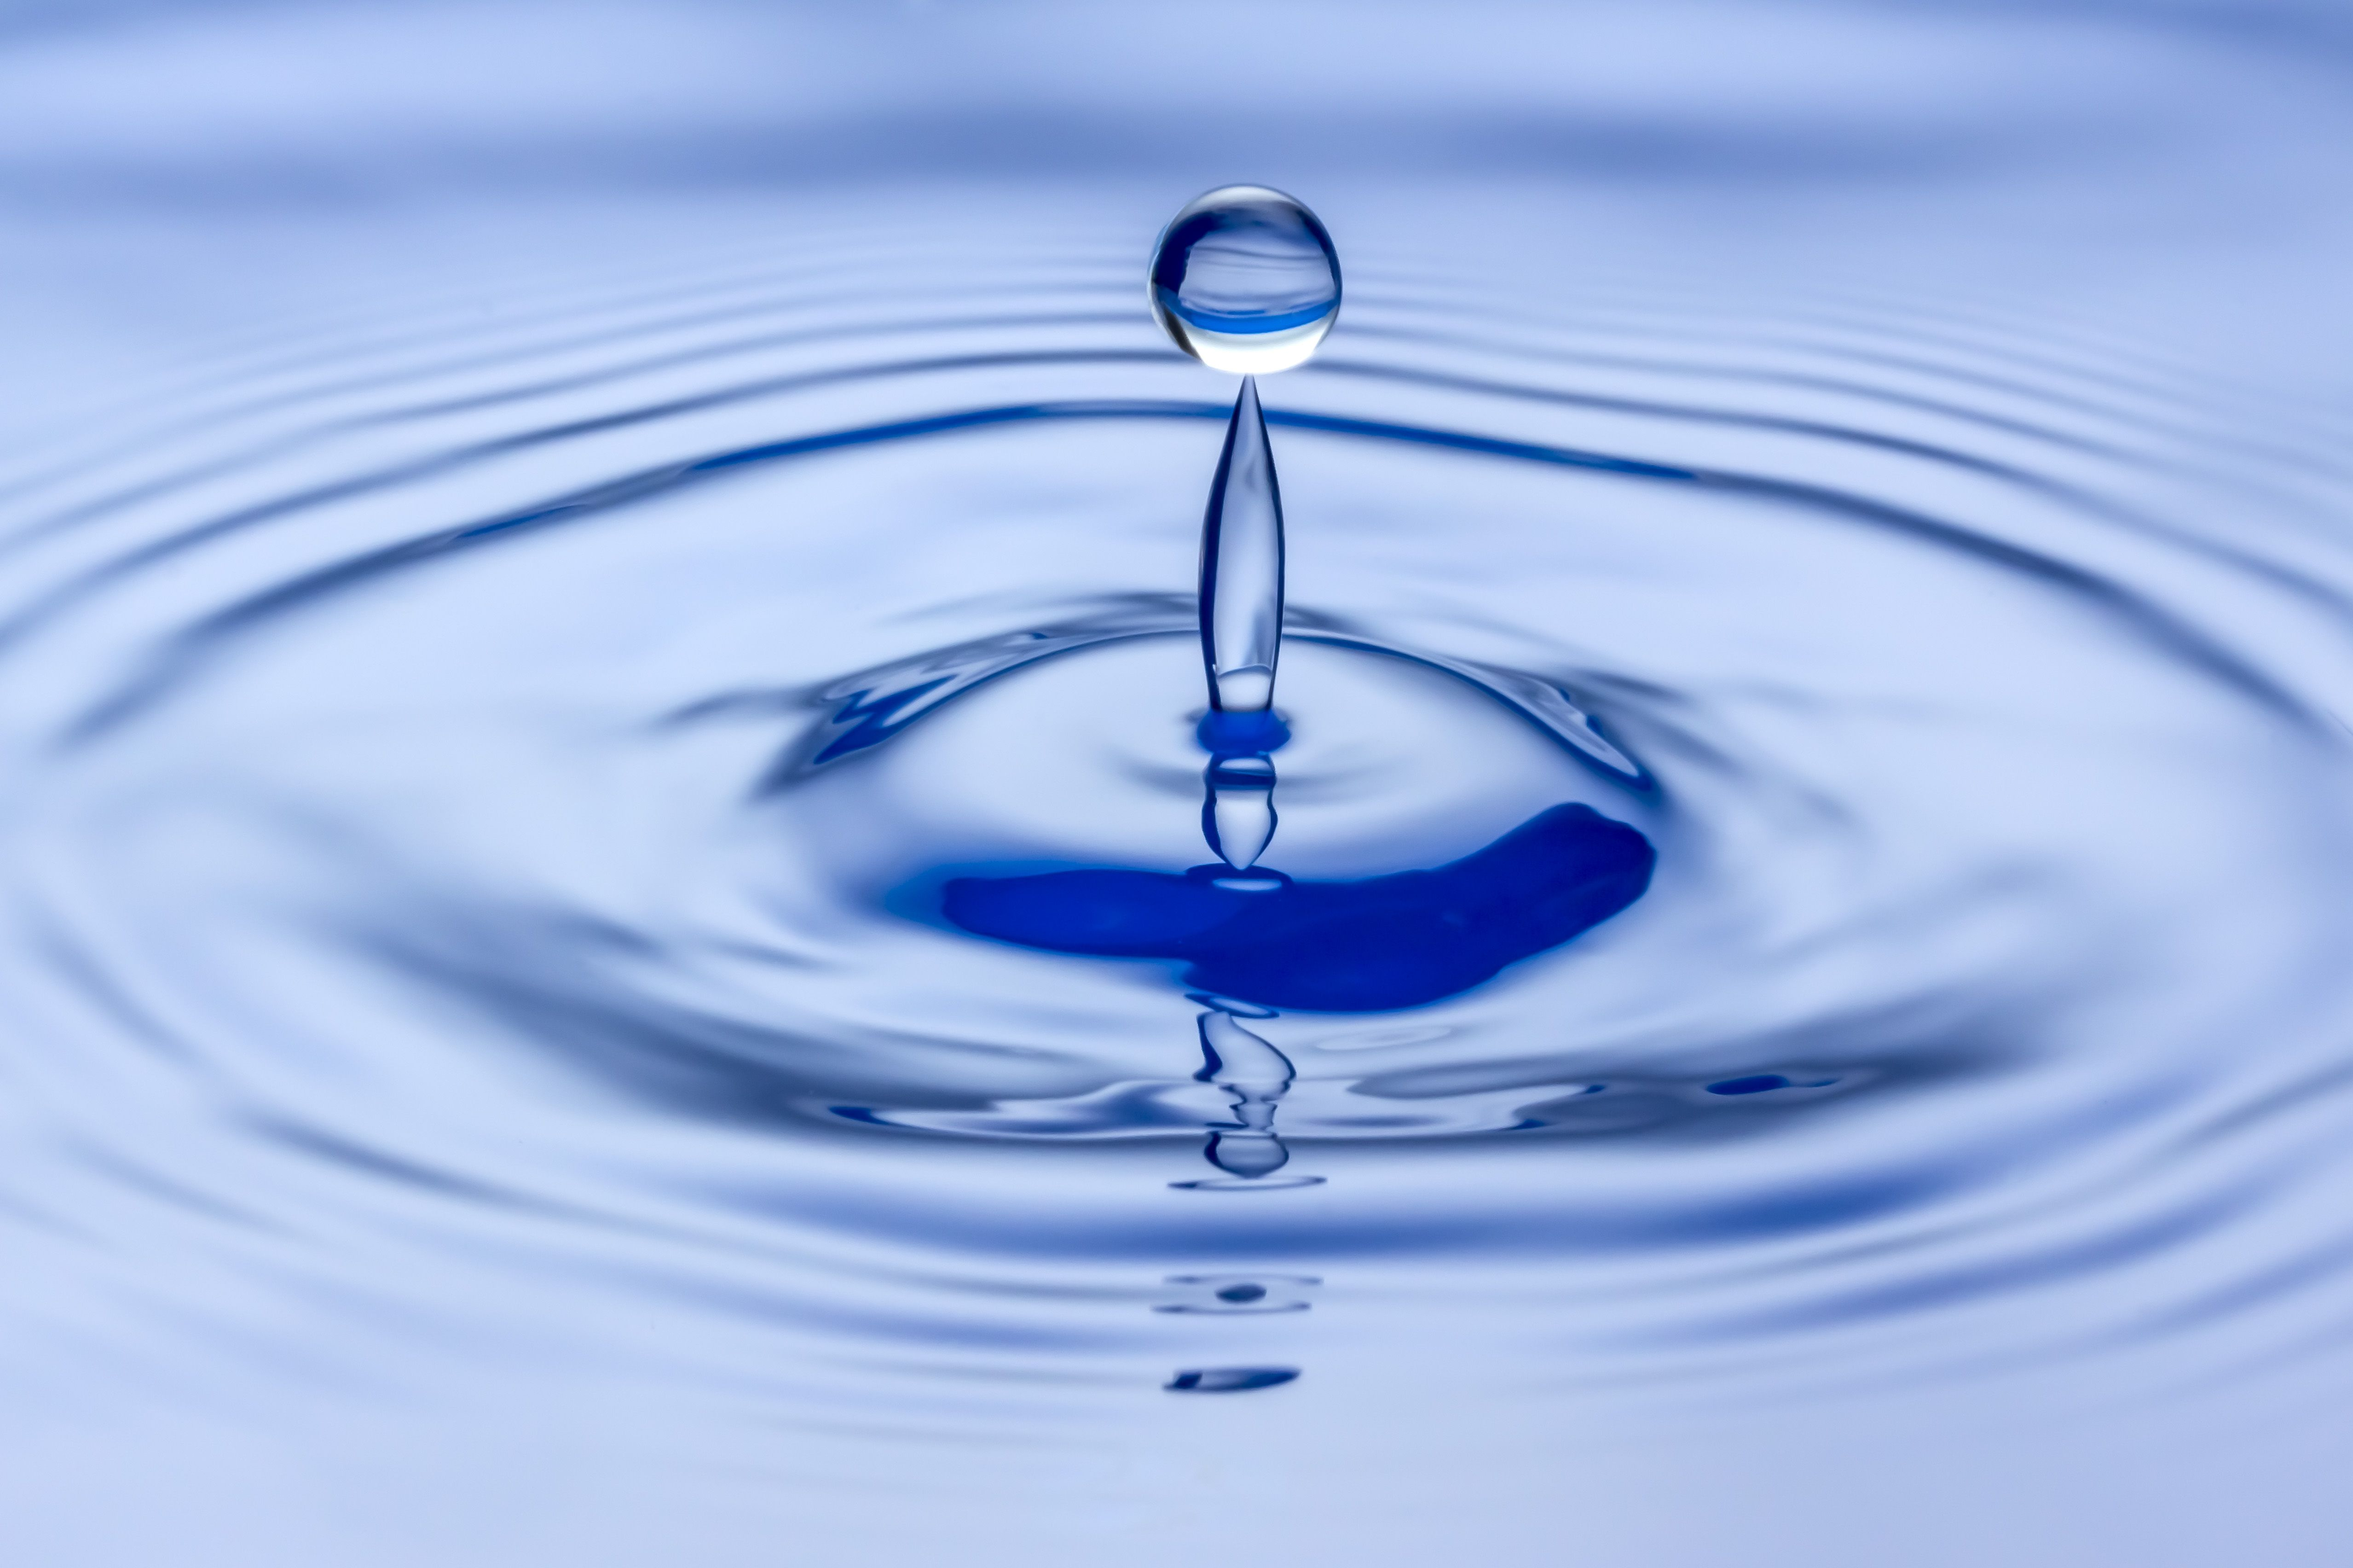
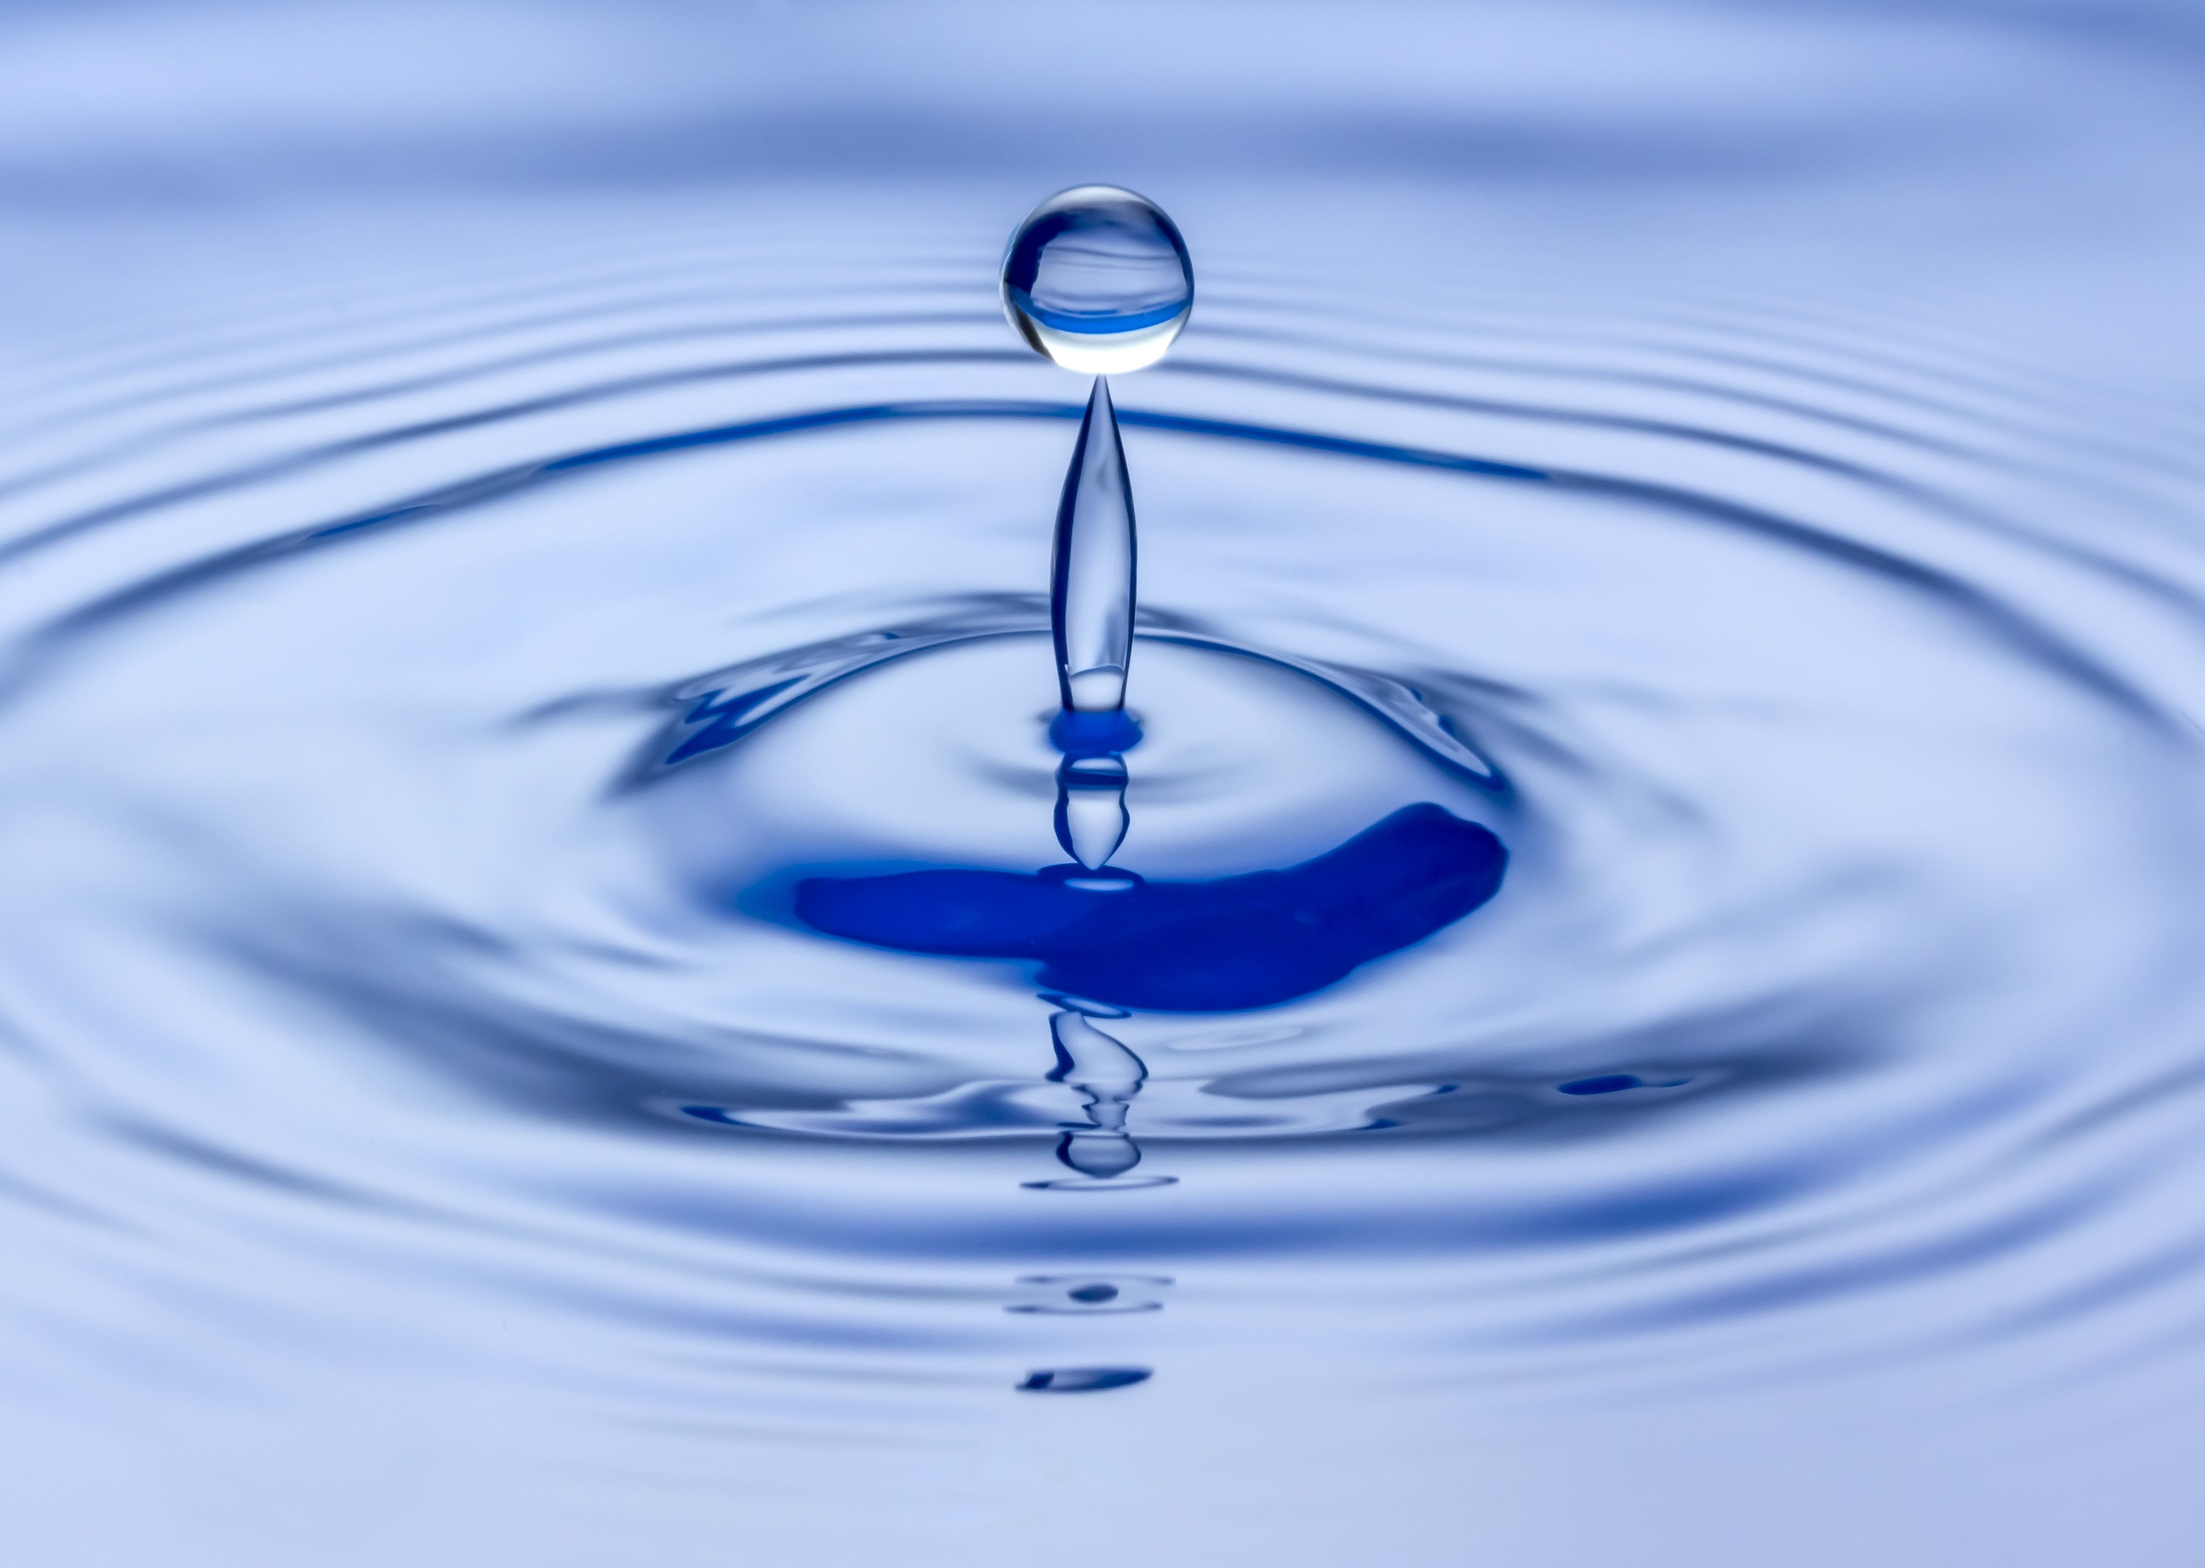
updated

diff --git a/estils.css b/estils.css
@@ -114,51 +114,61 @@ body {
 
 /* Targetes interactives */
 .targeta {
-    flex: 1;
-    max-width: 300px;
-    padding: 20px;
-    display: flex;
-    flex-direction: column;
-    align-items: center;
-    text-align: center;
+    position: relative;
+    width: 400px;
+    height: 450px;
+    border-radius: 10px;
+    overflow: hidden;
+    background-size: cover;
+    background-repeat: no-repeat;
+    transition: transform 1.5s ease-in-out,
+                box-shadow 0.8s ease-in-out,
+                border-radius 0.8s ease-in-out,
+                opacity 0.5s ease-in-out;
 }
 
 .targeta p {
+    position: relative;
+    padding: 15px;
+    width: auto;
+    z-index: 2;
+    height: 40px;
+    padding: 0;
+    display: flex;
+    justify-content: center;
+    align-items: center;
     font-size: 1.5em;
     color: #444;
 }
 
-.targeta img {
-    width: 100%;
-    height: 200px;
-    border-radius: 10px;
-    margin-bottom: 15px;
+
+.targeta.solid {
+    background-image: url("assets/img/agua_solida.jpg");
+    background-position: center 40px;
 }
 
-.targeta.solid img {
-    transition: transform 1.5s ease-in-out;
-}
-
-.targeta.solid img:hover {
+.targeta.solid:hover {
     transform: rotate(5deg)
 }
 
-.targeta.liquid img {
-    transform: transform 0.8s ease-in-out;
+.targeta.liquid {
+    background-image: url("assets/img/agua_liquida.jpg");
+    background-position: center 40px;
 }
 
-.targeta.liquid img:hover {
+.targeta.liquid:hover {
     transform: scale(1.14);
     box-shadow: 0 8px 16px rgba(0, 0, 0, 0.2);
     border-radius: 15px;
 }
 
-.targeta.gas img {
+.targeta.gas {
+    background-image: url("assets/img/agua_gaseosa.jpg");
+    background-position: center 40px;
     opacity: 0.6;
-    transition: opacity 0.5s ease;
 }
 
-.targeta.gas img:hover {
+.targeta.gas:hover {
     opacity: 1;
 }
 

diff --git a/index.html b/index.html
@@ -22,16 +22,11 @@
             </div>
             <div class="targetes">
                 <div class="targeta solid linear">
-                    <p class="source-serif-4">Sòlid: Gel</p>
-                    <img src="assets/img/agua_solida.jpg" alt="Gel">
-                </div>
+                    <p class="source-serif-4">Sòlid: Gel</p>                </div>
                 <div class="targeta liquid ease-in-out">
-                    <p class="source-serif-4">Líquid: Aigua</p>
-                    <img src="assets/img/agua_liquida.jpg" alt="Aigua">
-                </div>
+                    <p class="source-serif-4">Líquid: Aigua</p>                </div>
                 <div class="targeta gas ease-in">
                     <p class="source-serif-4">Gasós: Vapor</p>
-                    <img src="assets/img/agua_gaseosa.jpg" alt="Vapor">
                 </div>
             </div>
             <nav class="contenedor">
